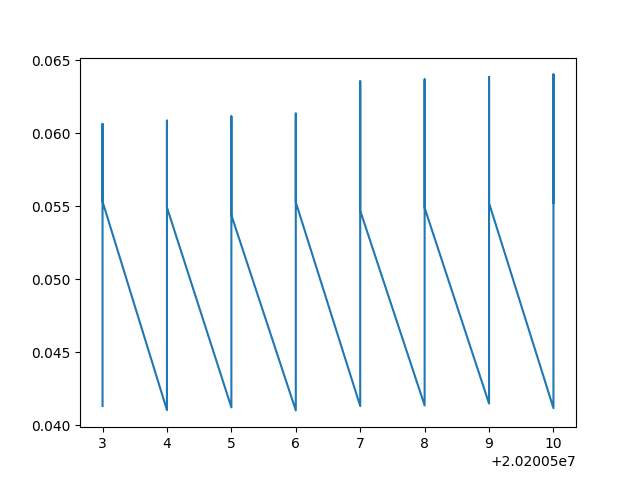
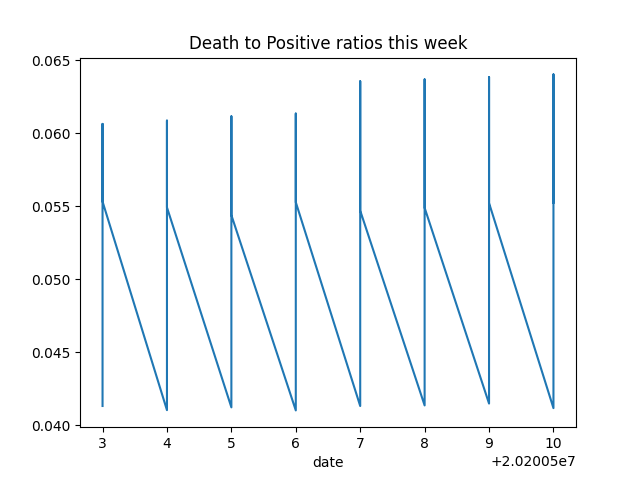
Did some stuff

Changed region(s): [[0.2812, 0.0625, 0.7188, 0.125], [0.5, 0.9375, 0.5312, 0.9688]]

diff --git a/covidTracker.py b/covidTracker.py
@@ -382,7 +382,9 @@ def output_grapher(data,output):
         date = data['dateArray'].iloc[0]
         print(date)
         ratio = data['ratioArray'].iloc[0]
-        plt.plot(date,ratio)
+        df_dict = {'date': date, 'ratio': ratio}
+        df = pd.DataFrame(df_dict)
+        df.plot(x = 'date', kind = graph_type, legend = False, title = title)
         #plt.set_title(title)
         plt.savefig(title+'.png')
         return
